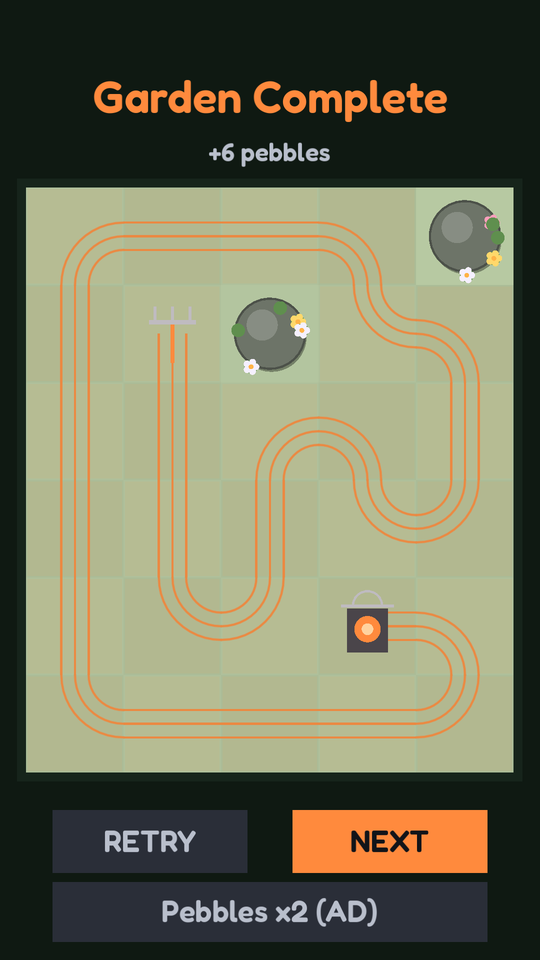
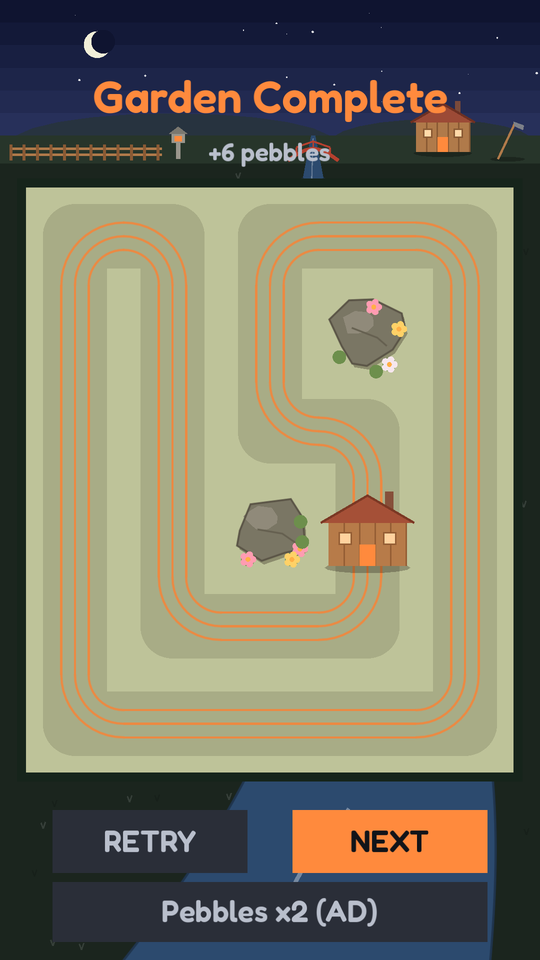
Zen Rake: endless journey, Market, new screenshots; privacy lists Market data

Changed region(s): [[0.0, 0.0, 1.0, 0.7188], [0.237, 0.8125, 0.9185, 1.0]]

diff --git a/zen-rake/privacy.html b/zen-rake/privacy.html
@@ -20,7 +20,7 @@
 
   <main class="wrap legal">
     <h1>Privacy Policy</h1>
-    <p class="meta">Zen Rake · Hasdemir Studio · Effective date: 20 November 2026</p>
+    <p class="meta">Zen Rake · Hasdemir Studio · Effective date: 21 November 2026</p>
     <div class="lang-switch"><a href="#en">English</a><a href="#tr">Türkçe</a></div>
 
     <div id="en">
@@ -31,7 +31,7 @@
       <p>We do not ask you to create an account. We do not collect your name, email address, phone number, contacts, photos, precise location or any other personal information, and we do not run our own servers that receive data from the Game.</p>
 
       <h2>3. Data stored on your device</h2>
-      <p>Your progress (level progress, pebbles, unlocked themes, daily streak, daily tasks, login streak, achievements, statistics and settings) is stored only on your device. It is not sent to us. Uninstalling the Game deletes this data.</p>
+      <p>Your progress (level progress, pebbles, items bought in the Market and your choices there, unlocked themes, daily streak, daily tasks, login streak, achievements, statistics and settings) is stored only on your device. It is not sent to us. Uninstalling the Game deletes this data.</p>
 
       <h2>4. Advertising</h2>
       <p>The Game may show ads, including optional rewarded ads that you choose to watch, through Google AdMob, a service provided by Google. To show and measure ads, Google may collect and process information such as your device's advertising ID, IP address, device model, operating system, approximate location (estimated from your IP address), how you interact with ads, and crash and diagnostic information about the ad service. Google uses this information according to its own policies:</p>
@@ -59,7 +59,7 @@
 
     <div id="tr">
       <h1 style="margin-top:64px">Gizlilik Politikası</h1>
-      <p class="meta">Zen Rake · Hasdemir Studio · Yürürlük tarihi: 20 Kasım 2026</p>
+      <p class="meta">Zen Rake · Hasdemir Studio · Yürürlük tarihi: 21 Kasım 2026</p>
 
       <h2>1. Biz kimiz</h2>
       <p>Zen Rake ("Oyun"), Türkiye'de faaliyet gösteren bağımsız geliştirici Hasdemir Studio ("biz") tarafından geliştirilmiştir. Bu politika, Oyun'un hangi bilgileri neden işlediğini açıklar.</p>
@@ -68,7 +68,7 @@
       <p>Oyun için hesap oluşturmanız gerekmez. Adınızı, e-posta adresinizi, telefon numaranızı, rehberinizi, fotoğraflarınızı, kesin konumunuzu veya başka bir kişisel verinizi toplamayız. Oyun'dan veri alan kendi sunucularımız yoktur.</p>
 
       <h2>3. Cihazınızda saklanan veriler</h2>
-      <p>İlerlemeniz (bölüm ilerlemesi, çakıllar, açılan temalar, günlük seri, günlük görevler, giriş serisi, başarımlar, istatistikler ve ayarlar) yalnızca cihazınızda saklanır ve bize gönderilmez. Oyun'u kaldırdığınızda bu veriler silinir.</p>
+      <p>İlerlemeniz (bölüm ilerlemesi, çakıllar, Market'te alınan öğeler ve seçimleriniz, açılan temalar, günlük seri, günlük görevler, giriş serisi, başarımlar, istatistikler ve ayarlar) yalnızca cihazınızda saklanır ve bize gönderilmez. Oyun'u kaldırdığınızda bu veriler silinir.</p>
 
       <h2>4. Reklamlar</h2>
       <p>Oyun, Google tarafından sağlanan Google AdMob hizmeti aracılığıyla, izlemeyi kendi isteğinizle seçtiğiniz ödüllü reklamlar dahil olmak üzere reklam gösterebilir. Google, reklamları göstermek ve ölçmek için cihazınızın reklam kimliği, IP adresi, cihaz modeli, işletim sistemi, IP adresinizden tahmin edilen yaklaşık konumunuz, reklamlarla etkileşiminiz ve reklam hizmetine ait hata ve teşhis bilgileri gibi bilgileri toplayabilir ve işleyebilir. Google bu bilgileri kendi politikalarına göre kullanır:</p>

diff --git a/zen-rake/index.html b/zen-rake/index.html
@@ -22,16 +22,16 @@
     <div class="wrap hero">
       <p class="eyebrow">Puzzle · Android</p>
       <h1>Zen Rake</h1>
-      <p class="lead">Rake every patch of sand in the garden with one continuous line. Do not cross your own path and do not touch the stones. Calm, simple and a little different on every garden.</p>
+      <p class="lead">Leave your little hut and rake every patch of sand with one continuous line, then end it back at the hut. Do not cross your own path and walk around the stones. Calm, endless, and your landscape grows as you play.</p>
       <div class="ember-rule"></div>
     </div>
 
     <section>
       <div class="wrap">
         <div class="shots">
-          <img src="../assets/zr-menu.png" alt="Zen Rake main menu">
-          <img src="../assets/zr-play.png" alt="A sand garden with a raked line winding between stones">
-          <img src="../assets/zr-complete.png" alt="A finished garden with glowing grooves and flowers around the stones">
+          <img src="../assets/zr-play.png" alt="A sand garden under a spring sky, with a cottage, an ox plough and a stream">
+          <img src="../assets/zr-complete.png" alt="A finished night garden: the raked loop glows and flowers bloom around the stones">
+          <img src="../assets/zr-market.png" alt="The Market with huts, cottages and a tea house">
         </div>
       </div>
     </section>
@@ -40,11 +40,12 @@
       <div class="wrap">
         <h2>Features</h2>
         <ul class="features">
-          <li><b>140 journey gardens</b>Seven themed gardens that grow from small 4x4 yards to large 8x11 gardens.</li>
+          <li><b>Endless journey</b>Gardens grow from small 4x4 yards to large 8x11 gardens and never run out. Every player gets the same garden at the same level.</li>
           <li><b>Daily Garden</b>A new, larger garden every day with a streak counter and bonus pebbles.</li>
           <li><b>Zen mode</b>Endless random gardens with no score and no rewards. Just rake.</li>
           <li><b>Soft sounds</b>Every tile adds a gentle rustle and a rising note. A finished garden glows and blooms.</li>
-          <li><b>Themes and goals</b>Six themes to unlock with pebbles, daily tasks, a login streak and fourteen achievements.</li>
+          <li><b>The Market</b>Spend pebbles on homes, tools from a hoe to a tractor, gems and shells, skies from dawn to winter, and decorations like a koi pond and a bridge.</li>
+          <li><b>Goals</b>Daily tasks, a daily deal, collection bonuses, a login streak and sixteen achievements.</li>
           <li><b>English and Turkish</b>Optional rewarded hints. No pushy pop-ups.</li>
         </ul>
       </div>

diff --git a/index.html b/index.html
@@ -72,7 +72,7 @@
           <img src="assets/zen-rake-icon.svg" alt="Zen Rake app icon">
           <div>
             <h3>Zen Rake</h3>
-            <p>A calm one-line puzzle: rake every patch of sand in the garden without crossing your own path or touching the stones.</p>
+            <p>A calm one-line puzzle: leave your hut, rake every patch of sand without crossing your own path, and return home. Build your own landscape as you play.</p>
             <ul class="tags"><li>Puzzle</li><li>Relaxing</li><li>Android</li></ul>
             <div class="links">
               <a href="zen-rake/">Learn more</a>
